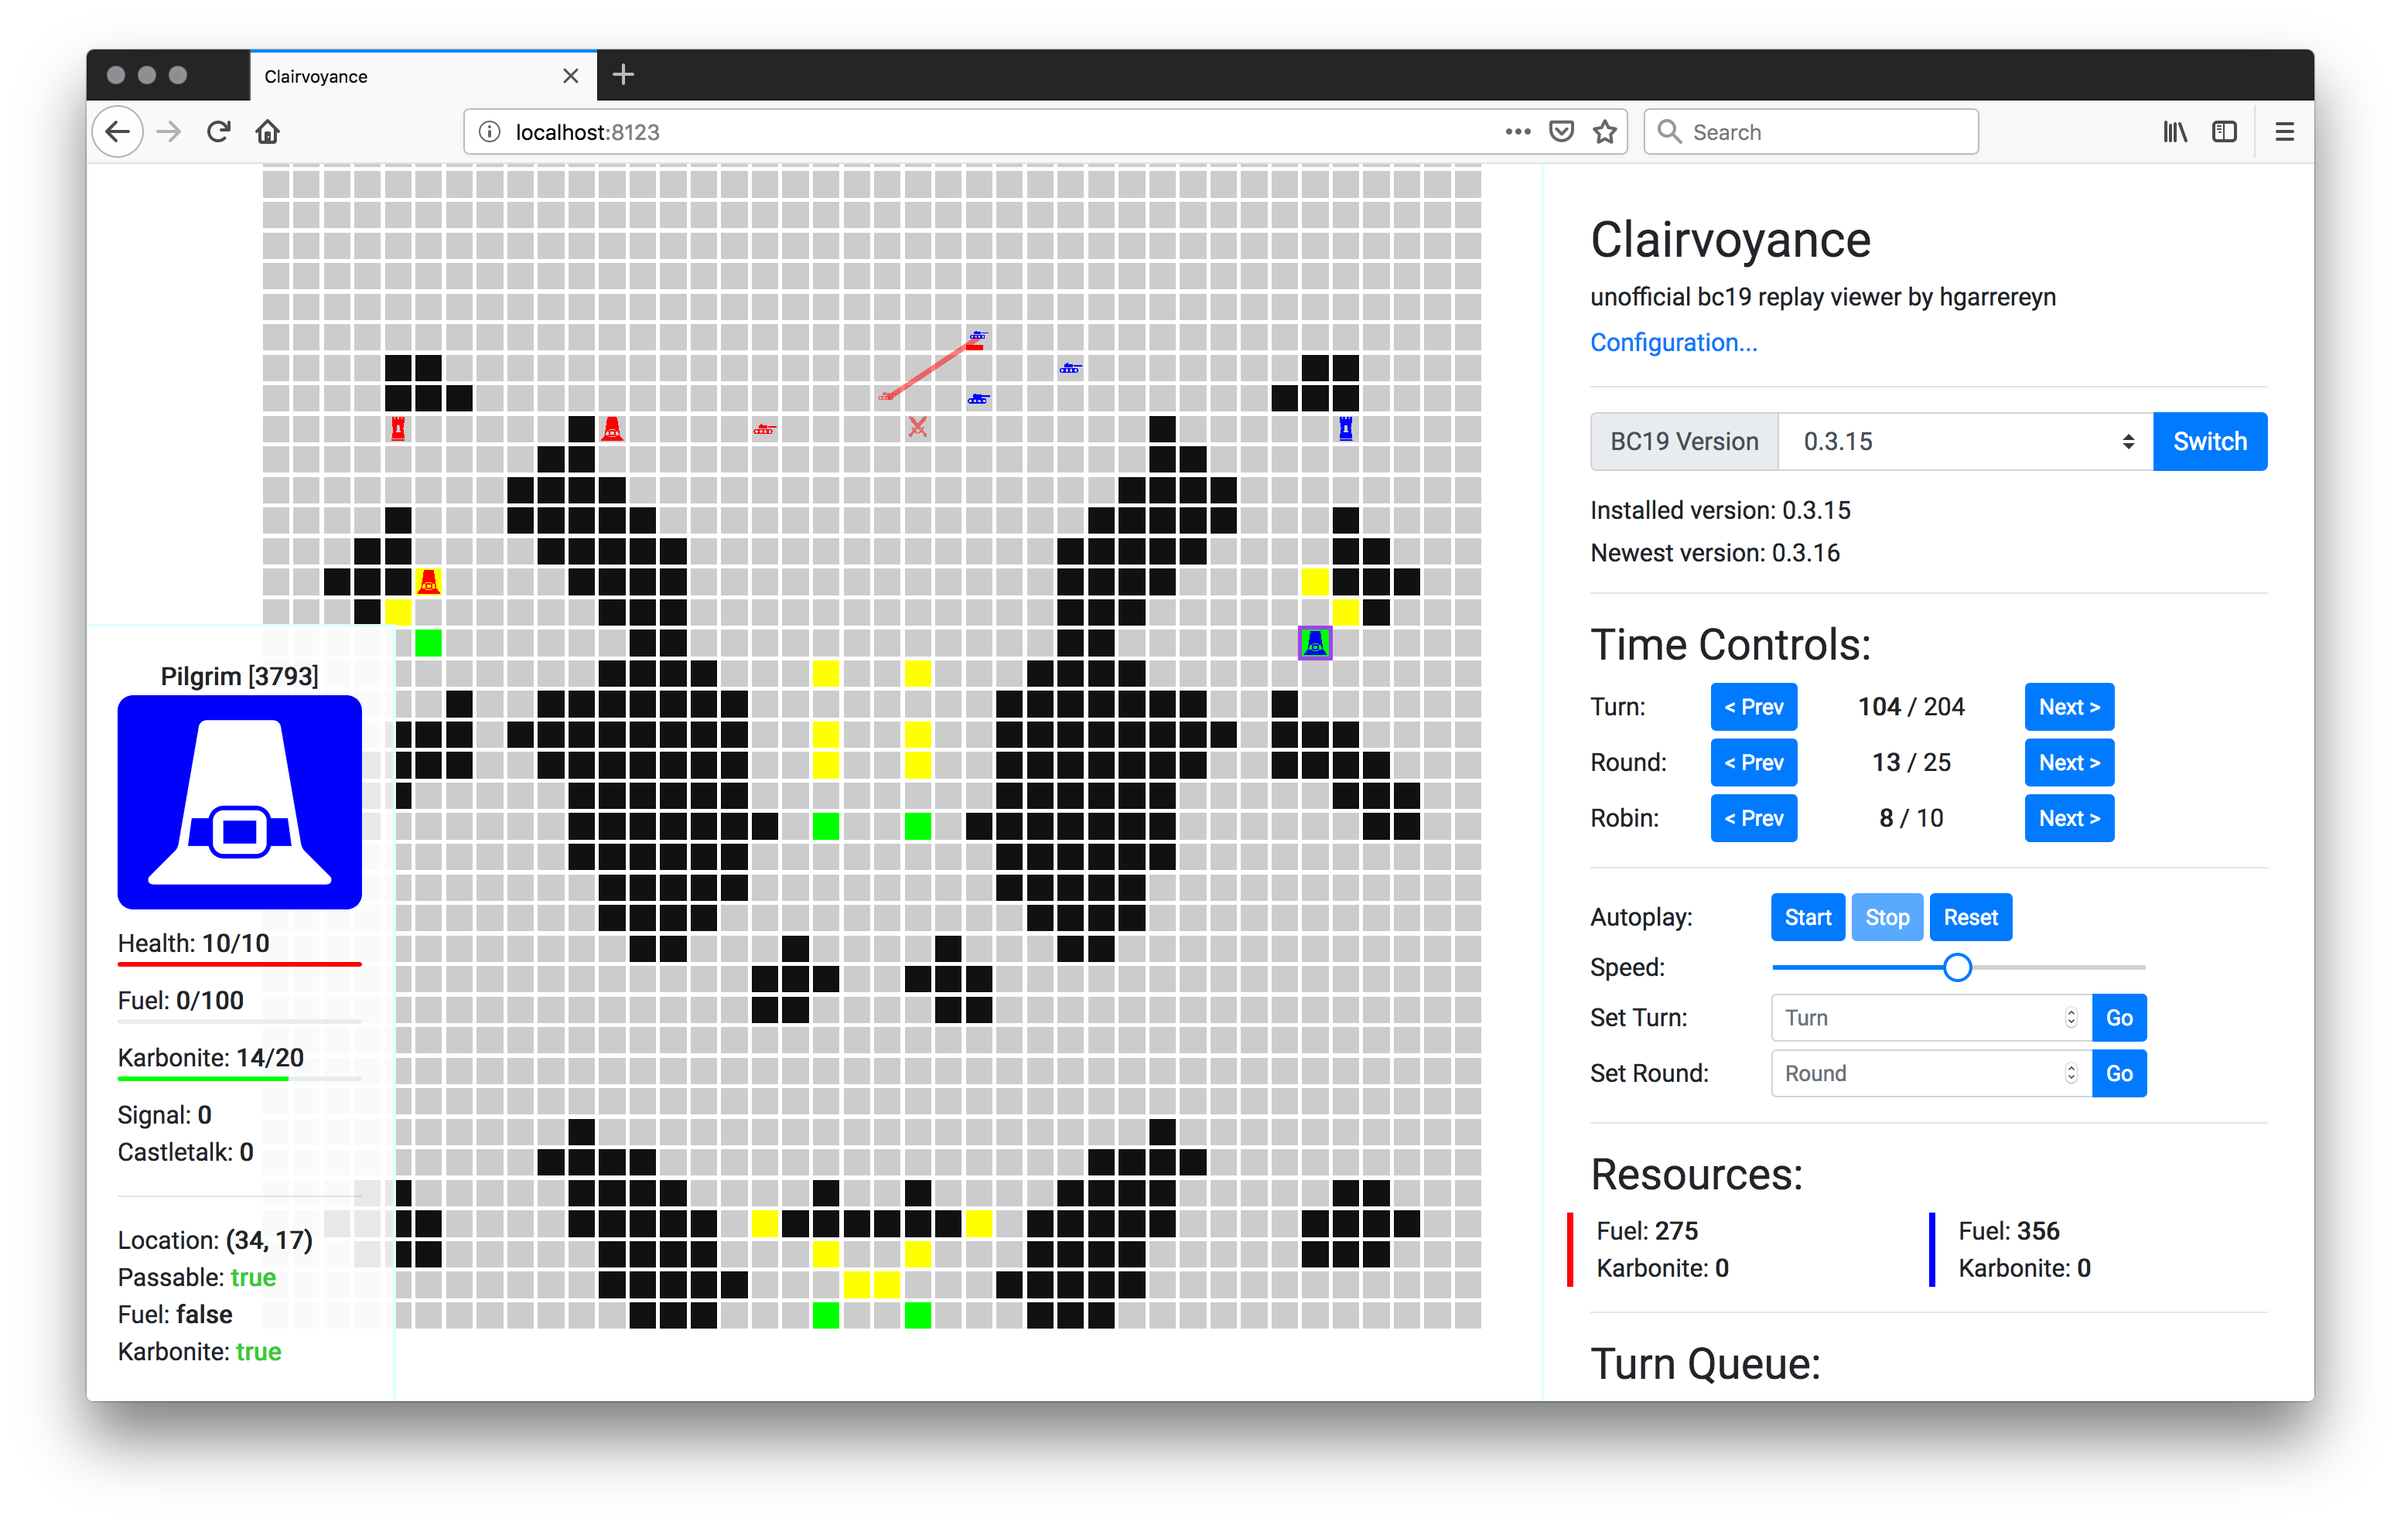
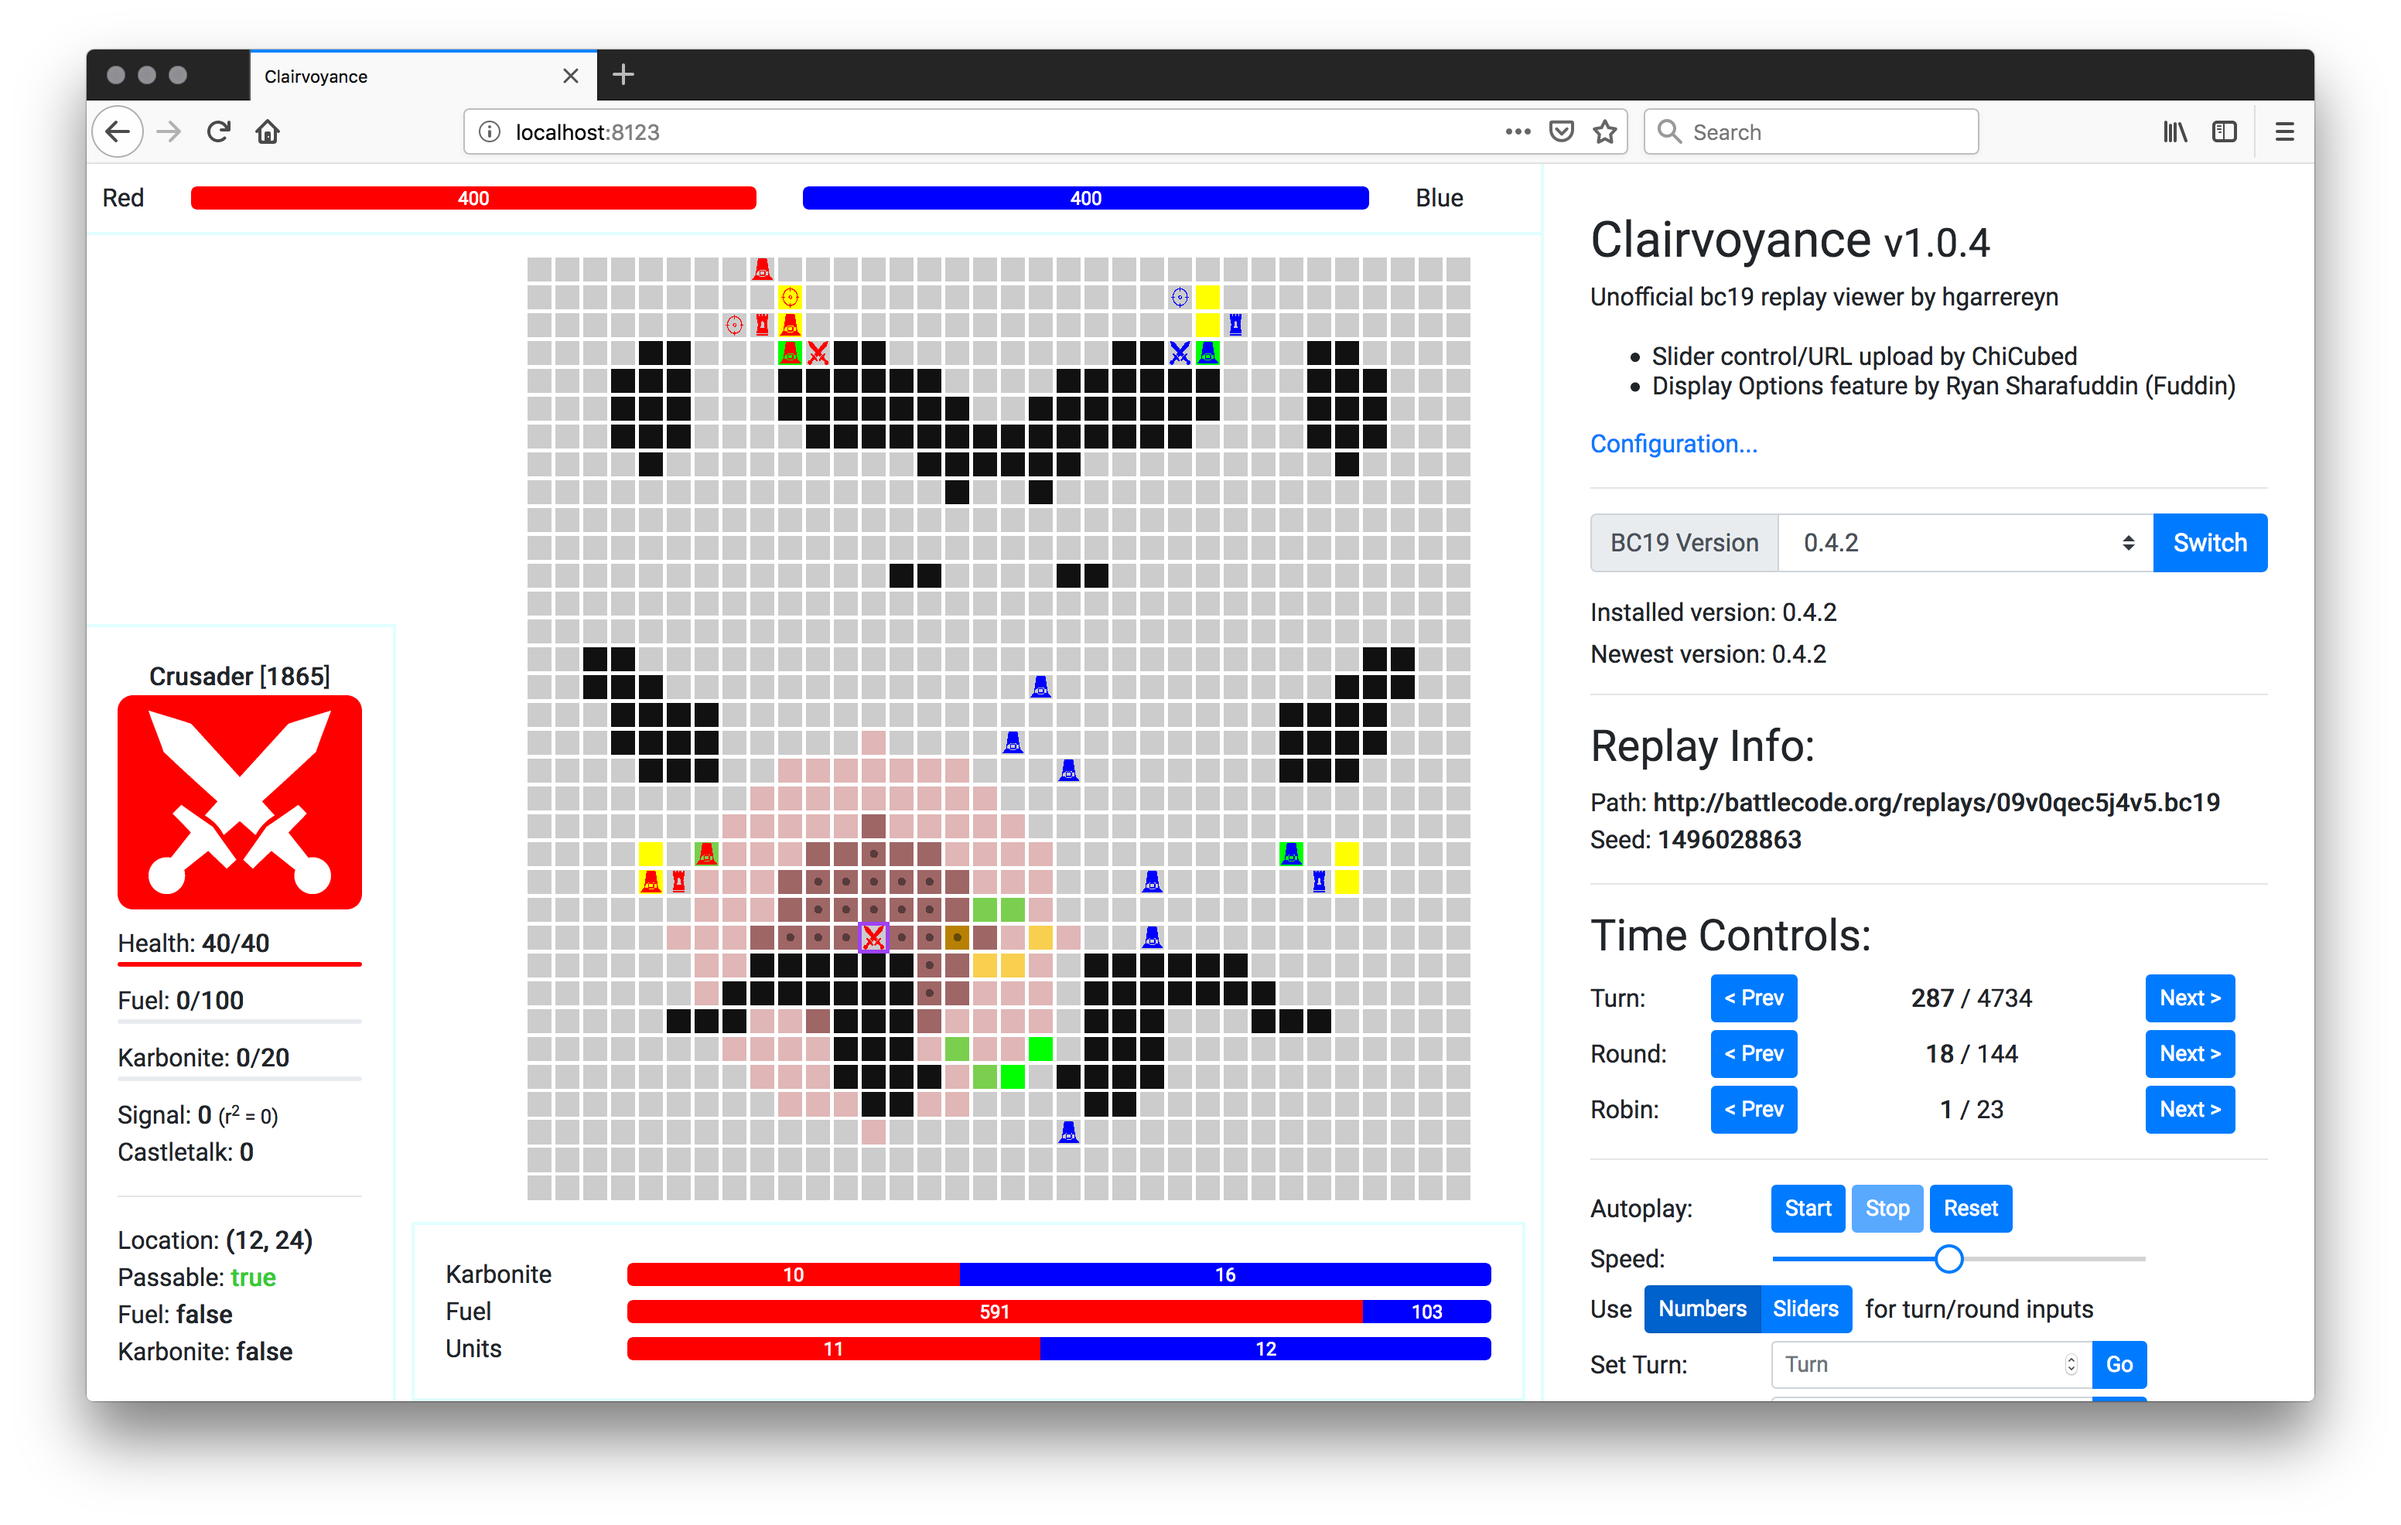
add better bars

diff --git a/site/main.js b/site/main.js
@@ -135,6 +135,7 @@ class Veww {
         this.current_turn = 0;
         this.current_round = 0;
         this.current_robin = 0;
+        this.max_health = (this.current_game.robots.length / 2) * SPECS.UNITS[0].STARTING_HP;
 
         document.getElementById('game_max_turns').innerText = this.max_turns;
         document.getElementById('game_max_rounds').innerText = this.num_rounds;
@@ -794,10 +795,11 @@ class Veww {
         document.getElementById('input_range_set_turn').value = this.current_turn;
         document.getElementById('input_range_set_round').value = this.current_round;
 
-        document.getElementById('game_red_fuel').innerText = this.current_game.fuel[0];
-        document.getElementById('game_blue_fuel').innerText = this.current_game.fuel[1];
-        document.getElementById('game_red_karbonite').innerText = this.current_game.karbonite[0];
-        document.getElementById('game_blue_karbonite').innerText = this.current_game.karbonite[1];
+        var red_health = 0;
+        var blue_health = 0;
+
+        var red_units = 0;
+        var blue_units = 0;
 
         // turn queue
         var html = '';
@@ -806,8 +808,53 @@ class Veww {
             var robot = this.current_game.robots[i];
             var color = robot.team == 0 ? 'red' : 'blue';
             html += `<p class='selectable ${color}' onmouseover=veww.select_unit(${i})>${i+1}: ${UNIT_NAMES[robot.unit]} [${robot.id}]</p>`
+        
+            if (robot.unit == SPECS.CASTLE) {
+                if (robot.team == 0) {
+                    red_health += robot.health;
+                } else {
+                    blue_health += robot.health;
+                }
+            }
+
+            if (robot.team == 0) {
+                red_units += 1;
+            } else {
+                blue_units += 1;
+            }
         }
         document.getElementById('turn_queue').innerHTML = html;
+
+        var red_health_percentage = red_health / this.max_health;
+        var blue_health_percentage = blue_health / this.max_health;
+
+        // health bars
+        document.getElementById('health_red').innerText = red_health;
+        document.getElementById('health_red').style.width = (red_health_percentage * 100) + '%';
+
+        document.getElementById('health_blue').innerText = blue_health;
+        document.getElementById('health_blue').style.width = (blue_health_percentage * 100) + '%';
+
+        // karbonite bars
+        document.getElementById('karbonite_red').innerText = this.current_game.karbonite[0];
+        document.getElementById('karbonite_red').style.width = (this.current_game.karbonite[0] / (this.current_game.karbonite[0]+this.current_game.karbonite[1]) * 100) + '%';
+
+        document.getElementById('karbonite_blue').innerText = this.current_game.karbonite[1];
+        document.getElementById('karbonite_blue').style.width = (this.current_game.karbonite[1] / (this.current_game.karbonite[0]+this.current_game.karbonite[1]) * 100) + '%';
+
+        // fuel bars
+        document.getElementById('fuel_red').innerText = this.current_game.fuel[0];
+        document.getElementById('fuel_red').style.width = (this.current_game.fuel[0] / (this.current_game.fuel[0]+this.current_game.fuel[1]) * 100) + '%';
+
+        document.getElementById('fuel_blue').innerText = this.current_game.fuel[1];
+        document.getElementById('fuel_blue').style.width = (this.current_game.fuel[1] / (this.current_game.fuel[0]+this.current_game.fuel[1]) * 100) + '%';
+
+        // unit bars
+        document.getElementById('units_red').innerText = red_units;
+        document.getElementById('units_red').style.width = (red_units / (red_units+blue_units) * 100) + '%';
+
+        document.getElementById('units_blue').innerText = blue_units;
+        document.getElementById('units_blue').style.width = (blue_units / (red_units+blue_units) * 100) + '%';
     }
 
     write_tooltip() {

diff --git a/site/index.html b/site/index.html
@@ -52,8 +52,55 @@
             </div>
         </div>
 
+        <div id='health'>
+            <div class='row'>
+                <div class='col-auto'>Red</div>
+                <div class='col-5 align-self-center'>
+                    <div class="progress" style='height:15px; flex-direction: row-reverse;'>
+                        <div id='health_red' class="progress-bar red-bar" role="progressbar" style="width: 100%;"></div>
+                    </div>
+                </div>
+                <div class='col-5 align-self-center'>
+                    <div class="progress" style='height:15px;'>
+                        <div id='health_blue' class="progress-bar blue-bar" role="progressbar" style="width: 100%"></div>
+                    </div>
+                </div>
+                <div class='col-auto'>Blue</div>
+            </div>
+        </div>
+
+        <div id='stats'>
+            <div class='row'>
+                <div class='col-2'>Karbonite</div>
+                <div class='col-10 align-self-center'>
+                    <div class="progress" style='height:15px;'>
+                        <div id='karbonite_red' class="progress-bar red-bar" role="progressbar" style="width: 50%;"></div>
+                        <div id='karbonite_blue' class="progress-bar blue-bar" role="progressbar" style="width: 50%;"></div>
+                    </div>
+                </div>
+            </div>
+            <div class='row'>
+                <div class='col-2'>Fuel</div>
+                <div class='col-10 align-self-center'>
+                    <div class="progress" style='height:15px;'>
+                        <div id='fuel_red' class="progress-bar red-bar" role="progressbar" style="width: 50%;"></div>
+                        <div id='fuel_blue' class="progress-bar blue-bar" role="progressbar" style="width: 50%;"></div>
+                    </div>
+                </div>
+            </div>
+            <div class='row'>
+                <div class='col-2'>Units</div>
+                <div class='col-10 align-self-center'>
+                    <div class="progress" style='height:15px;'>
+                        <div id='units_red' class="progress-bar red-bar" role="progressbar" style="width: 50%;"></div>
+                        <div id='units_blue' class="progress-bar blue-bar" role="progressbar" style="width: 50%;"></div>
+                    </div>
+                </div>
+            </div>
+        </div>
+
         <div id='controls'>
-            <h2>Clairvoyance <small>v1.0.3</small></h2>
+            <h2>Clairvoyance <small>v1.0.4</small></h2>
             <h6>
                 Unofficial bc19 replay viewer by hgarrereyn 
                 <br> 
@@ -257,20 +304,6 @@
                             <div class="slider round"></div>
                         </label>
                     </div>
-                </div>
-            </div>
-
-            <hr/>
-            <h3>Resources:</h3>
-
-            <div class='row display-panel'>
-                <div class='col-6 red-team'>
-                    <p>Fuel: <span id='game_red_fuel' class='dyn_val'>0</span></p>
-                    <p>Karbonite: <span id='game_red_karbonite' class='dyn_val'>0</span></p>
-                </div>
-                <div class='col-6 blue-team'>
-                    <p>Fuel: <span id='game_blue_fuel' class='dyn_val'>0</span></p>
-                    <p>Karbonite: <span id='game_blue_karbonite' class='dyn_val'>0</span></p>
                 </div>
             </div>
 

diff --git a/site/main.css b/site/main.css
@@ -26,6 +26,36 @@ body {
     overflow-y: scroll;
 }
 
+#stats {
+    position: absolute;
+    bottom: 0px;
+    left: 210px;
+    right: 510px;
+    padding: 20px;
+
+    background-color: rgba(255,255,255,0.9);
+    border: 2px solid lightcyan;
+}
+
+#health {
+    position: absolute;
+    top: 0px;
+    left: 0px;
+    right: 500px;
+    padding: 10px;
+
+    background-color: rgba(255,255,255,0.9);
+    border-bottom: 2px solid lightcyan;
+}
+
+.red-bar {
+    background-color: red;
+}
+
+.blue-bar {
+    background-color: blue;
+}
+
 input[type=range] {
     -webkit-appearance: none;
     -moz-appearance: none;

diff --git a/README.md b/README.md
@@ -52,7 +52,7 @@ Clairvoyance is capable of automatically reloading when the replay file changes 
 * Turn queue
     * see the order that robots will run
 * Stats
-    * view fuel and karbonite per team
+    * bars to display total castle health, karbonite, fuel and number of units
     * view the replay seed
 * Live-switch between versions of bc19 in the browser
     * scrim replays work!
@@ -60,6 +60,9 @@ Clairvoyance is capable of automatically reloading when the replay file changes 
     * Can show a robot's moveable, attackable, or visible squares on hover
 
 # Version History
+
+## 1.0.4 (1/20/19)
+* show bars for health, karbonite, fuel and units
 
 ## 1.0.3 (1/19/19)
 * show signal radius in tooltip (thanks to j-mao)
